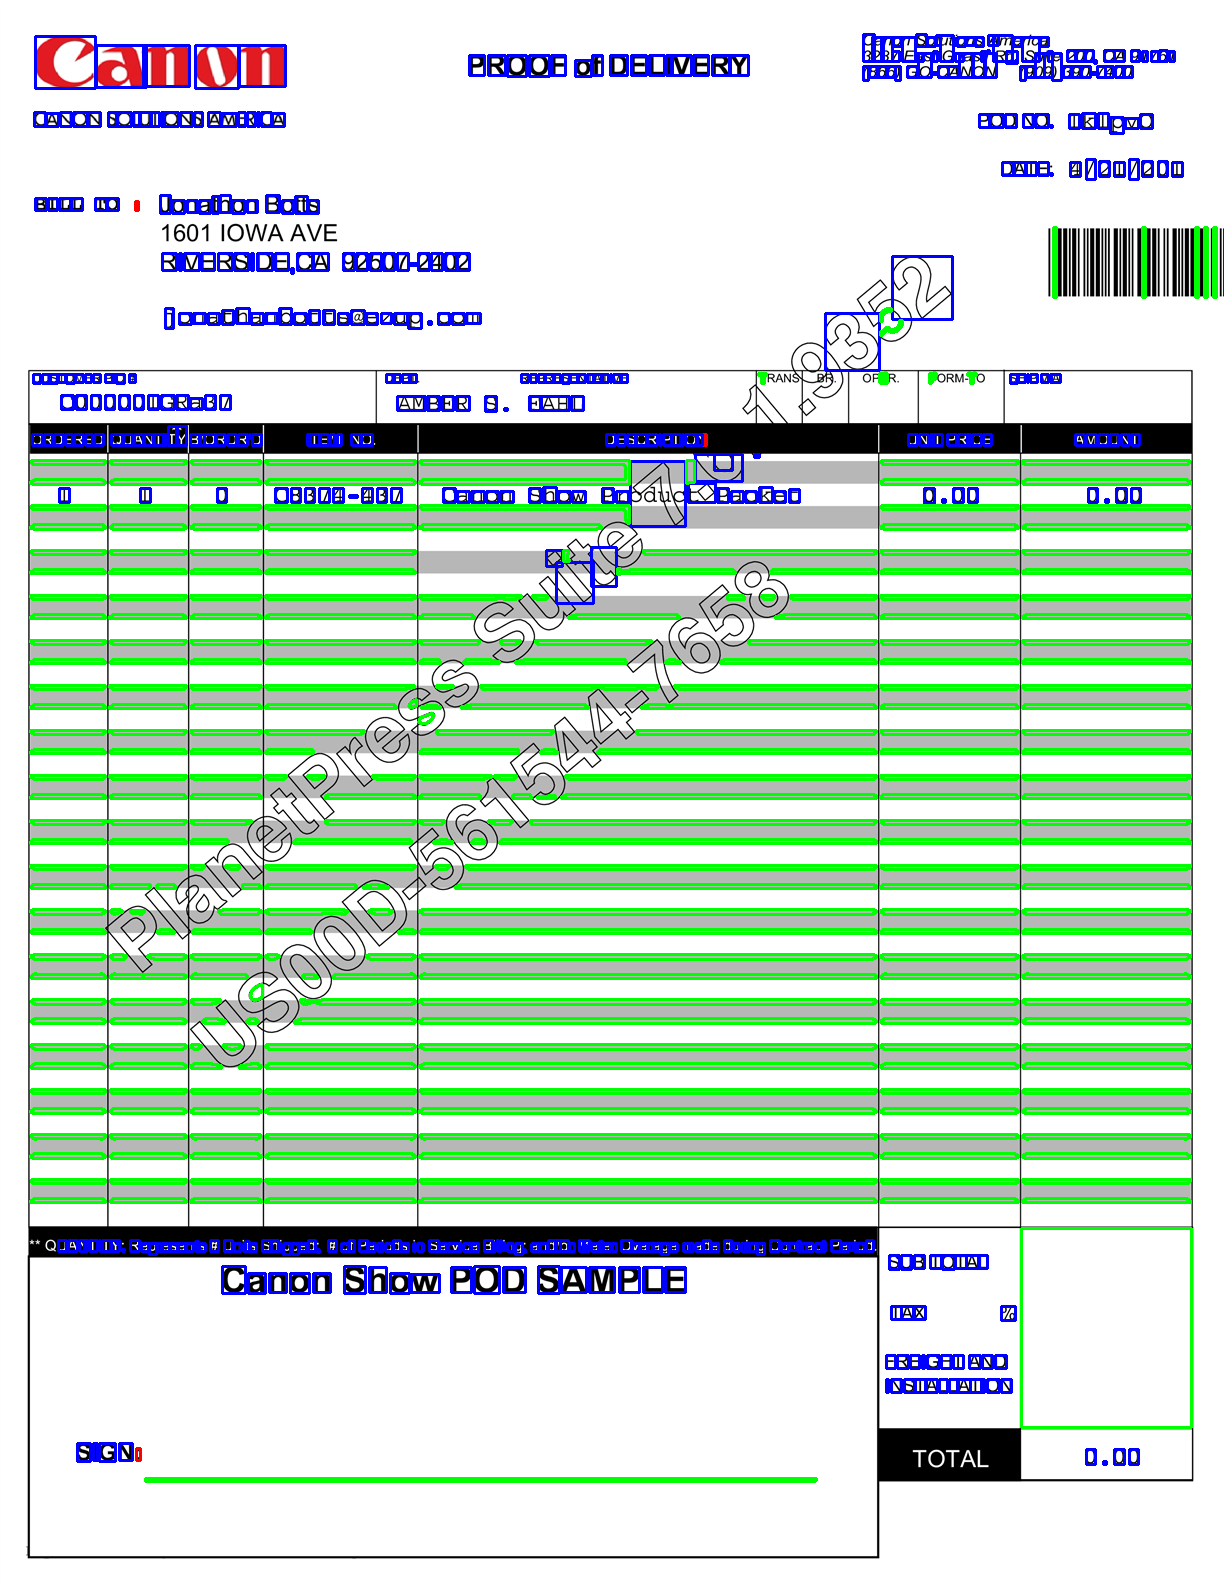
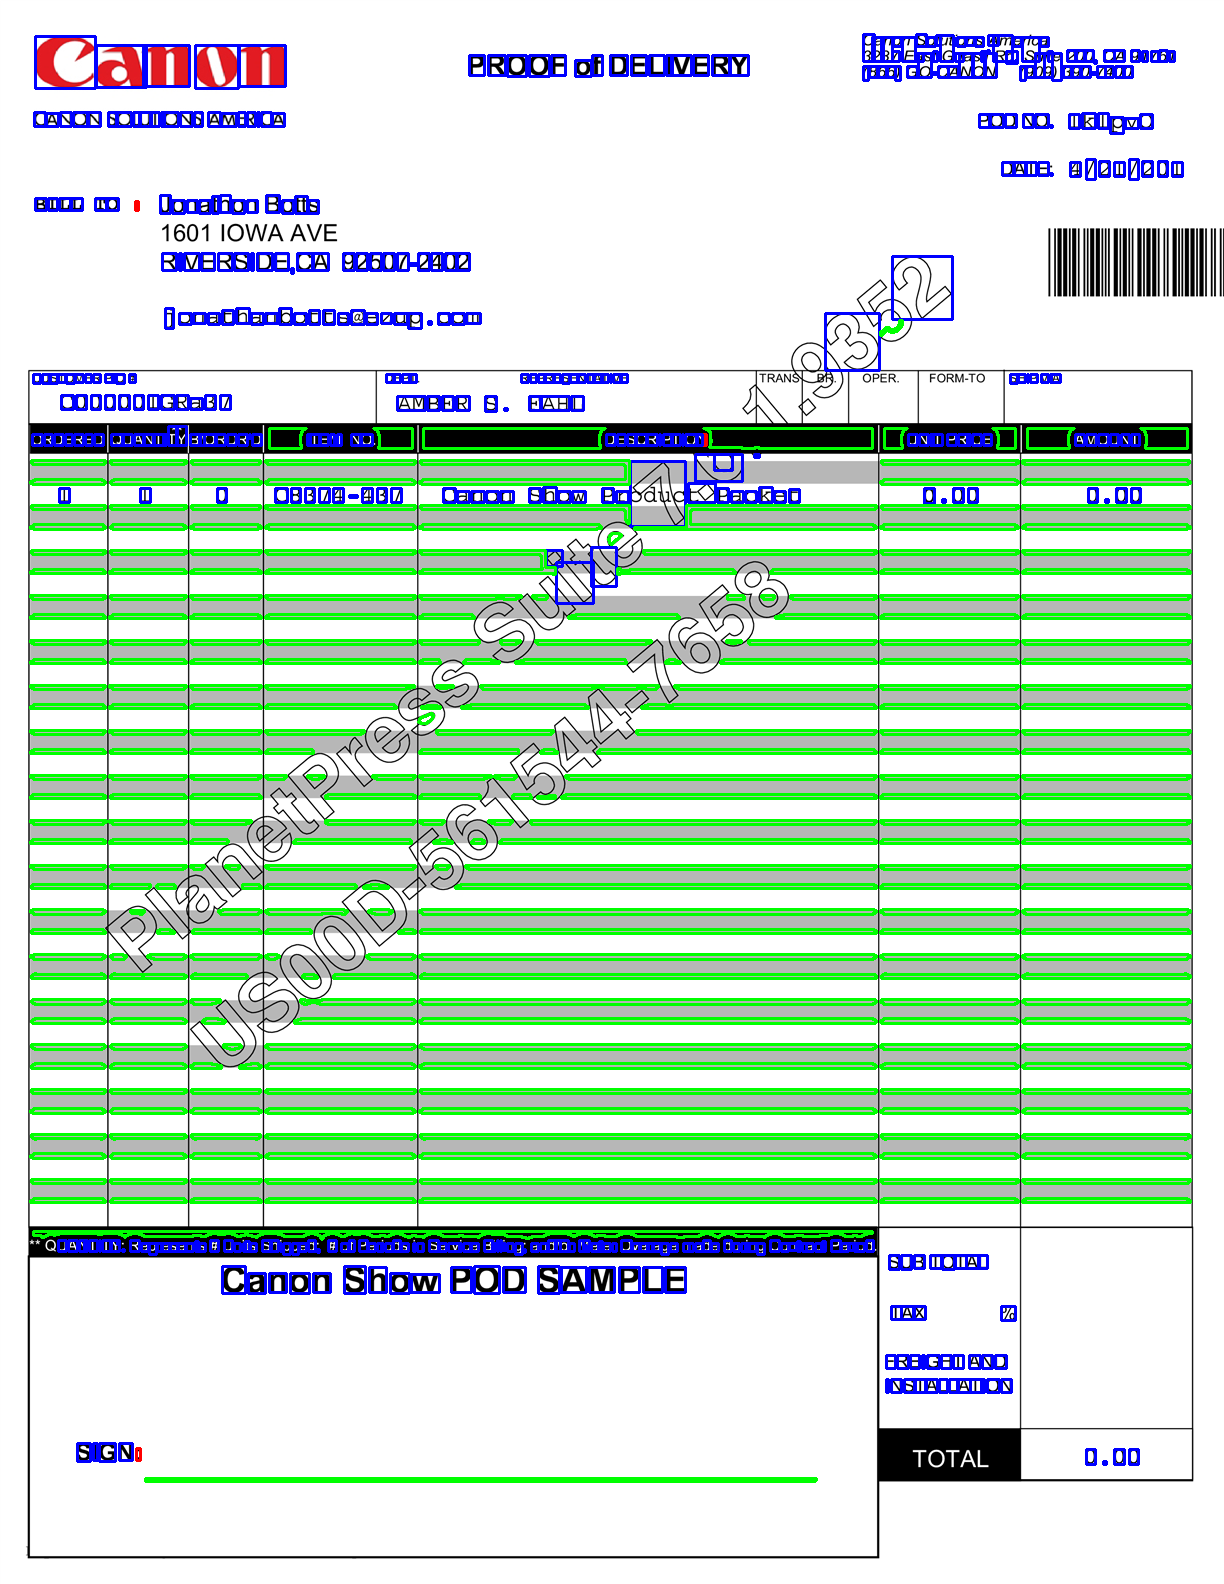
special_chars checkpoint

diff --git a/FormReader/FormReader.py b/FormReader/FormReader.py
@@ -1,6 +1,5 @@
 import cv2
 import numpy as np
-# import pandas as pd
 from PIL import Image
 import pytesseract as pyt
 import sys
@@ -11,9 +10,12 @@ class Image_Data:
         # TODO: Make image skew detector
 
         self.img = cv2.imread(imgpath)
-        self.img_pil_gray = Image.fromarray(cv2.cvtColor(self.img, cv2.COLOR_BGR2GRAY))
+        self.imggray_original = cv2.cvtColor(self.img, cv2.COLOR_BGR2GRAY)
+        self.img_pil_gray = Image.fromarray(self.imggray_original)
         self.imgpath = imgpath
         self.height, self.width, self.channels = self.img.shape
+        self.window_height = int(.01 * self.height)
+        self.window_width = int(.01 * self.width)
 
     def extract_chars(self):
         pyt_string = pyt.image_to_string(self.img_pil_gray, boxes=True)
@@ -28,17 +30,11 @@ class Image_Data:
 
     def extract_contours(self):
         # ret, thresh = cv2.threshold(self.imgray, 127, 255, 0)
-        thresh = cv2.adaptiveThreshold(cv2.cvtColor(self.img, cv2.COLOR_BGR2GRAY), 255, cv2.ADAPTIVE_THRESH_GAUSSIAN_C, cv2.THRESH_BINARY, 11, 2)
-        # thresh = cv2.adaptiveThreshold(self.imgray, 255, cv2.ADAPTIVE_THRESH_GAUSSIAN_C, cv2.THRESH_BINARY, 11, 2)
+        thresh = cv2.adaptiveThreshold(self.imgray, 255, cv2.ADAPTIVE_THRESH_GAUSSIAN_C, cv2.THRESH_BINARY, 11, 2)
         self.image, self.contours, self.hierarchy = cv2.findContours(thresh, cv2.RETR_TREE, cv2.CHAIN_APPROX_SIMPLE)
-        cont_hierarchy = np.array(zip(self.contours, self.hierarchy[0][:, 2]))
-        self.real_contours = cont_hierarchy[cont_hierarchy[:, 1] == -1][:, 0]
+        self.real_contours = np.array(self.contours)[self.hierarchy[0][:, 2] == -1]
+        self.special_contours = self.add_special_contours()
         self.real_contours = self.get_array_size()
-        # self.real_contours = [contour for contour in self.real_contours if len(contour) <= 10]
-
-        # TODO: create max/min character array to see if current contours include characters
-            # TODO: If the contour contains characters, they must be "NAME", "DATE", or "SIGNATURE"
-                # TODO: After that, split up contours into wide white-spaces
 
     def add_circles_and_squares(self):
         pass
@@ -49,7 +45,7 @@ class Image_Data:
         self.final_img = cv2.drawContours(cv2.imread(self.imgpath), self.special_char_array, -1, (0, 0, 255), 2)
         self.final_img = cv2.drawContours(self.final_img, self.char_array, -1, (255, 0, 0), 2)
         self.final_img = cv2.drawContours(self.final_img, self.real_contours, -1, (0, 255, 0), 2)
-        # self.final_img = cv2.drawContours(cv2.imread(self.imgpath), self.real_contours, -1, (0, 255, 0), 2)
+        self.final_img = cv2.drawContours(self.final_img, self.special_contours, -1, (0, 0, 255), 2)
 
     def get_wordless_img(self):
         cv2.imwrite('wordless_' + sys.argv[1], self.wordless_img)
@@ -84,35 +80,80 @@ class Image_Data:
                 special_char_list.append(char_id)
                 special_char_area_list.append(char_boundaries)
 
+        char_array = np.array(char_area_list)
+        self.x_vals_e = char_array[:, :, 0, 0][:, 0]
+        self.x_vals_w = char_array[:, :, 0, 0][:, 2]
+
+        self.y_vals_s = char_array[:, :, 0, 1][:, 0]
+        self.y_vals_n = char_array[:, :, 0, 1][:, 2]
         return char_list, char_area_list, special_char_list, special_char_area_list
 
     def get_array_size(self):
         contours_to_keep = []
         for i, contour in enumerate(self.real_contours):
-            y = contour[:, 0, 0]
-            x = contour[:, 0, 1]
+            x = contour[:, 0, 0]
+            y = contour[:, 0, 1]
 
             min_x, max_x = np.min(x), np.max(x)
             min_y, max_y = np.min(y), np.max(y)
             area = (max_x - min_x)*(max_y - min_y)
+            sample = self.imggray_original[min_y:max_y, min_x:max_x]
 
+            contains_chars = np.array(self.char_list)[(min_x < self.x_vals_w) & (max_x > self.x_vals_e) &
+                                                      (min_y < self.y_vals_s) & (max_y > self.y_vals_n)]
+            if (area > self.window_height*self.window_width) or (np.abs(min_y - max_y) < self.window_height and np.abs(min_x - max_x) > self.window_width):
+                if max_x - min_x > max_y - min_y:
+                    try:
+                        if len(contains_chars) == 0:
+                            ret, sample_thresh = cv2.threshold(sample, 127, 255, cv2.THRESH_BINARY)
+                            sample_image, sample_contours, sample_hierarchy = cv2.findContours(sample_thresh, cv2.RETR_TREE, cv2.CHAIN_APPROX_SIMPLE)
 
+                            if len(sample_contours) < 3:
+                                contours_to_keep.append(i)
 
-            sample = cv2.imread(self.imgpath)[min_x:max_x, min_y:max_y]
-            unique = np.unique(sample)
-
-            x_vals_e = np.array(self.char_array)[:, :, 0, 0][:, 0]
-            x_vals_w = np.array(self.char_array)[:, :, 0, 0][:, 2]
-
-            y_vals_s = np.array(self.char_array)[:, :, 0, 1][:, 0]
-            y_vals_n = np.array(self.char_array)[:, :, 0, 1][:, 2]
-
-            contains_chars = np.array(self.char_list)[(min_x < x_vals_e) & (max_x > x_vals_w) & (min_y < y_vals_s) & (max_y > y_vals_n)]
-            if area > 50:
-                contours_to_keep.append(i)
-            elif len(contains_chars) == 0:
-                contours_to_keep.append(i)
-
-            elif np.abs(min_y - max_y) < 5 and np.abs(min_x - max_x) > 50:
-                contours_to_keep.append(i)
+                    except:
+                        next
         return self.real_contours[contours_to_keep]
+
+    def add_special_contours(self):
+        # real_contour_list = list(self.real_contours)
+        test_contour_list = []
+        for special_char in self.special_char_array:
+            e = special_char[:, 0, 0][0]
+            w = special_char[:, 0, 0][2]
+            s = special_char[:, 0, 1][0]
+            n = special_char[:, 0, 1][2]
+            # print "East: %s, West: %s, South: %s, North: %s" % (e, w, s, n)
+            sample = self.imggray_original[e + self.window_width:, :]
+            ret, sample_thresh = cv2.threshold(sample, 127, 255, cv2.THRESH_BINARY)
+            sample_image, sample_contours, sample_hierarchy = cv2.findContours(sample_thresh, cv2.RETR_TREE, cv2.CHAIN_APPROX_SIMPLE)
+
+            new_n = new_w = 0
+            new_s = self.height
+            new_e = self.width
+
+            for contour in sample_contours:
+                x = contour[:, 0, 0]
+                y = contour[:, 0, 1]
+
+                min_x, max_x = np.min(x), np.max(x)
+                min_y, max_y = np.min(y), np.max(y)
+
+                if min_y < s & min_y > new_s:
+                    new_s = min_y
+                if max_y > n & max_y > new_n:
+                    new_n = max_y
+                if min_x < w & min_x > new_w:
+                    new_w = min_x
+                if max_x > e & max_x < new_e:
+                    new_e = max_x
+
+
+            new_e = new_e + e + self.window_width
+            new_w = e + self.window_width
+            # print "East: %s, West: %s, South: %s, North: %s -- UPDATED" % (new_e, new_w, new_s, new_n)
+            special_char_boundaries = np.array([[[new_e, new_s]], [[new_e, new_n]],
+                                                [[new_w, new_n]], [[new_w, new_s]]])
+
+            test_contour_list.append(special_char_boundaries)
+        return np.array(test_contour_list)
